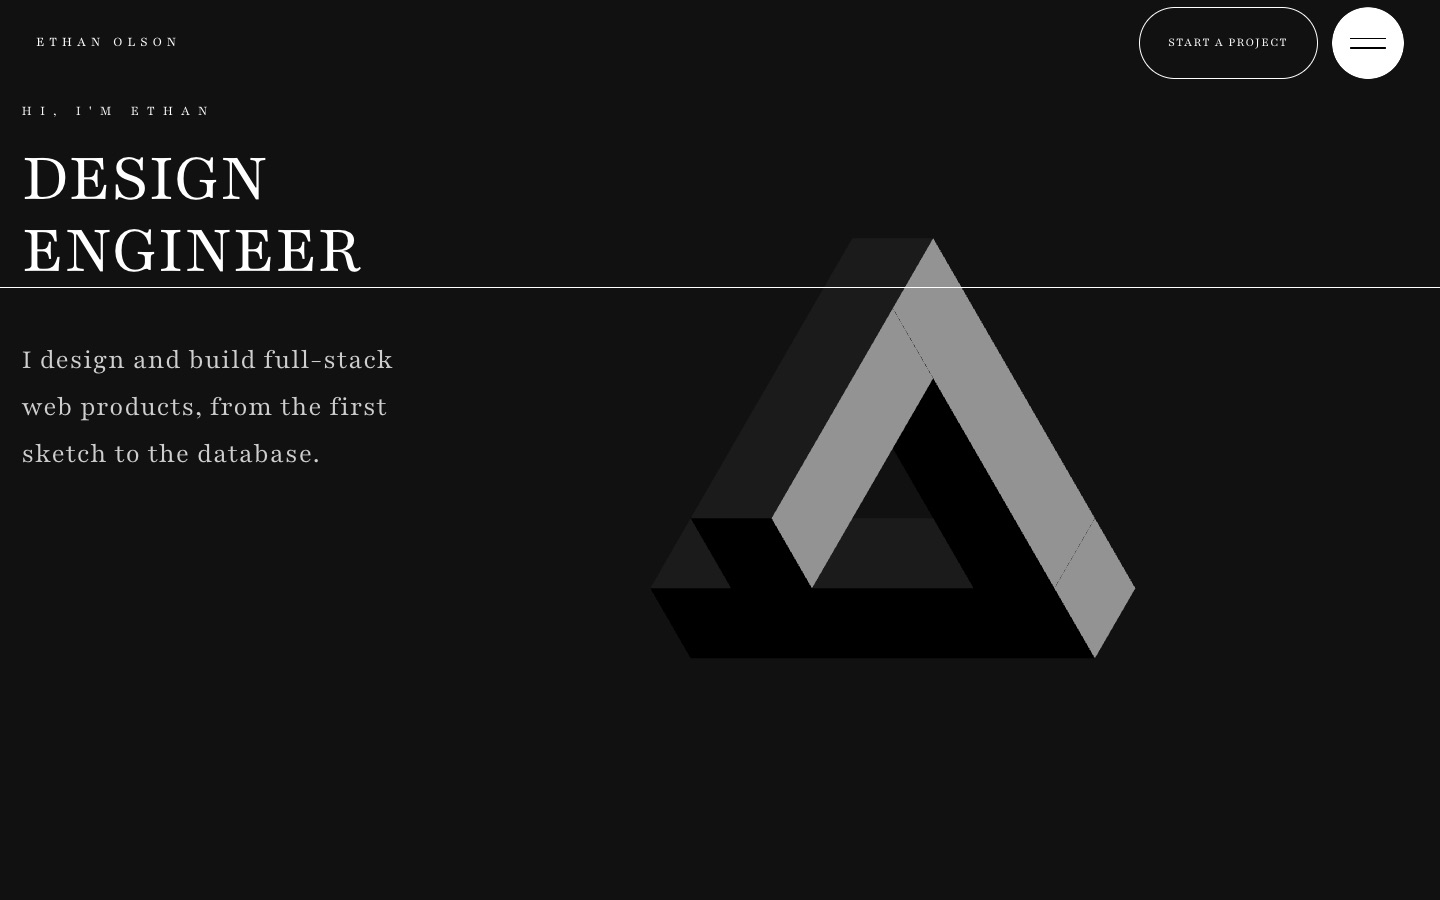
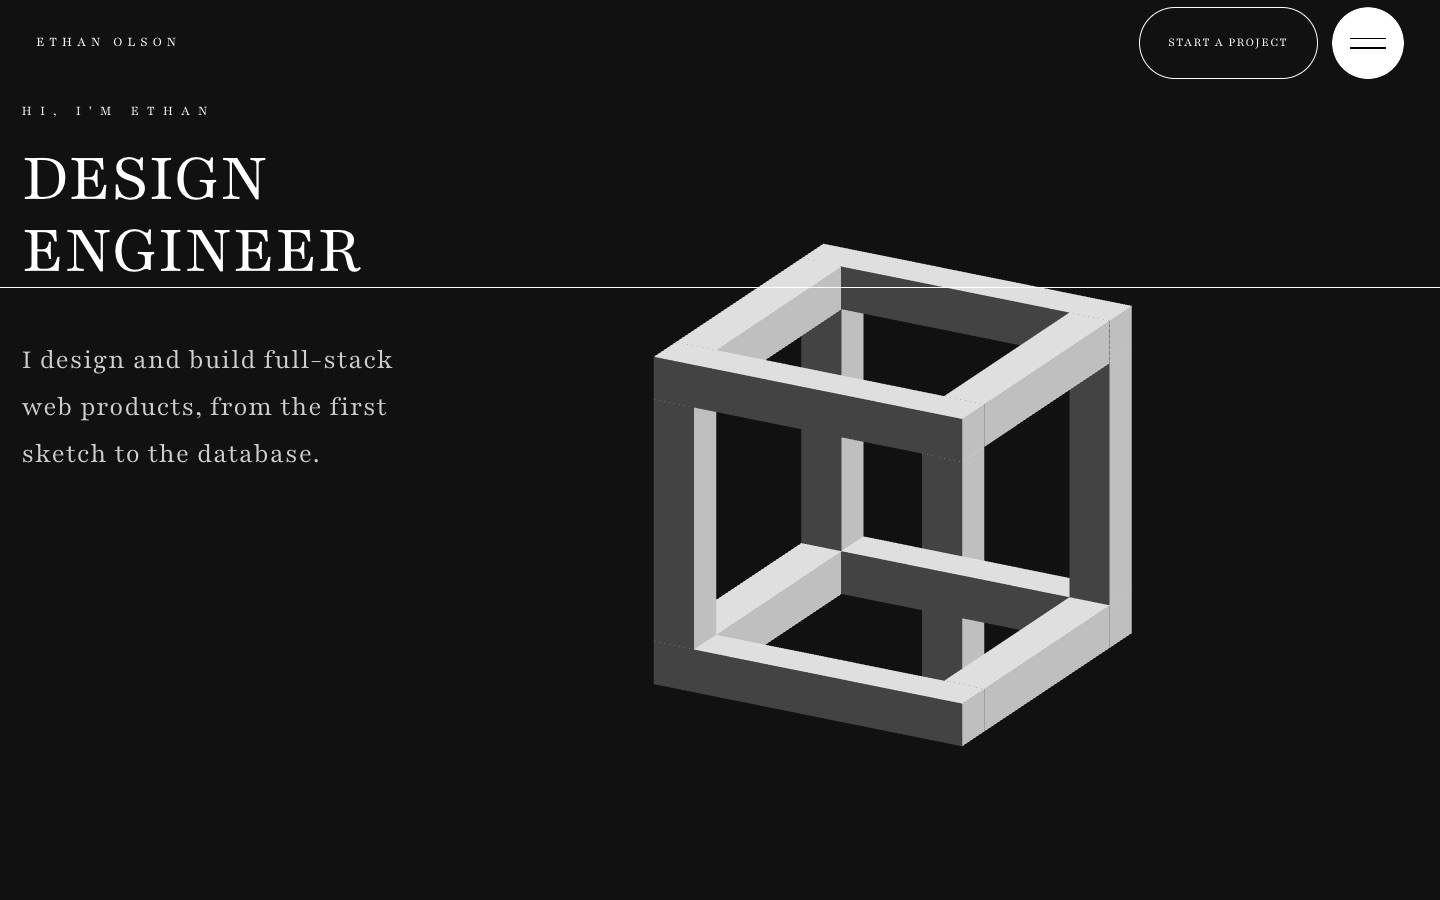
feat(hero): replace the Penrose triangle with an impossible cube
The cube frame is built from box beams. The part of the front-right edge around its crossing with the back-bottom edge is moved straight back along the line of sight, so from the final angle the back edge passes in front of it. Each face direction gets its own tone so the crossings read clearly, and the float no longer rotates the figure.

Closes #11

Changed region(s): [[0.4375, 0.2489, 0.8125, 0.84]]

diff --git a/components/ui/OpticalIllusion.tsx b/components/ui/OpticalIllusion.tsx
@@ -5,34 +5,65 @@ import * as THREE from "three";
 import { useThree } from "@react-three/fiber";
 import { gsap } from "@/lib/gsap";
 
-// A Penrose triangle: three perpendicular beams that only look like a closed triangle
-// when viewed along the (1, 1, 1) diagonal. The third beam is one block short, and from
-// that angle the first beam's end fills the gap.
-const LENGTH = 5;
-const VIEW_DIRECTION = new THREE.Vector3(1, 1, 1).normalize();
+// An impossible cube (after Escher): a cube frame where one back edge appears to pass in
+// front of a front edge. Seen from VIEW, the front-right edge crosses the back-bottom edge.
+// The part of the front edge around that crossing is pushed straight back along VIEW,
+// behind the back edge. In a parallel projection that move is invisible, so the frame
+// still looks continuous, but the crossing is now the wrong way round.
+const HALF = 2;
+const THICKNESS = 0.6;
+const VIEW = new THREE.Vector3(0.55, 0.45, 1).normalize();
 
-const beams: { size: [number, number, number]; center: [number, number, number] }[] = [
-  { size: [LENGTH, 1, 1], center: [LENGTH / 2, 0.5, 0.5] },
-  { size: [1, LENGTH - 1, 1], center: [LENGTH - 0.5, (LENGTH + 1) / 2, 0.5] },
-  { size: [1, 1, LENGTH - 2], center: [LENGTH - 0.5, LENGTH - 0.5, LENGTH / 2] },
-];
+type Beam = { size: [number, number, number]; position: [number, number, number] };
 
-// Centroid of the three corner blocks, so the visible triangle is centered
-const CENTER: [number, number, number] = [-(2 * LENGTH - 0.5) / 3, -(LENGTH + 0.5) / 3, -0.5];
+function impossibleCube(): Beam[] {
+  const full = 2 * HALF + THICKNESS;
+  const inner = 2 * HALF - THICKNESS;
+  const beams: Beam[] = [];
+
+  // Edges along x own the corners, so beams never overlap
+  for (const y of [-HALF, HALF])
+    for (const z of [-HALF, HALF]) beams.push({ size: [full, THICKNESS, THICKNESS], position: [0, y, z] });
+  for (const x of [-HALF, HALF])
+    for (const y of [-HALF, HALF]) beams.push({ size: [THICKNESS, THICKNESS, inner], position: [x, y, 0] });
+  for (const z of [-HALF, HALF]) beams.push({ size: [THICKNESS, inner, THICKNESS], position: [-HALF, 0, z] });
+  beams.push({ size: [THICKNESS, inner, THICKNESS], position: [HALF, 0, -HALF] });
+
+  // Where the front-right edge (x = HALF, z = HALF) crosses the back-bottom edge
+  // (y = -HALF, z = -HALF) on screen: the two points differ by exactly `depth` along VIEW.
+  const depth = (2 * HALF) / VIEW.z;
+  const crossingY = -HALF + depth * VIEW.y;
+  const splitY = crossingY + THICKNESS * 1.5;
+  const bottom = -HALF + THICKNESS / 2;
+  const top = HALF - THICKNESS / 2;
+
+  // Upper part of the front-right edge stays at the front
+  beams.push({
+    size: [THICKNESS, top - splitY, THICKNESS],
+    position: [HALF, (top + splitY) / 2, HALF],
+  });
+
+  // Lower part, moved behind the back edge along the line of sight
+  const behind = VIEW.clone().multiplyScalar(-(depth + 2 * THICKNESS));
+  beams.push({
+    size: [THICKNESS, splitY - bottom, THICKNESS],
+    position: [HALF + behind.x, (splitY + bottom) / 2 + behind.y, HALF + behind.z],
+  });
+
+  return beams;
+}
+
+const BEAMS = impossibleCube();
 
 const START_ROTATION = { x: -1.2, y: 0.8, z: 0.4 };
 
-// Turns the figure so its illusion diagonal points at a camera on the -z side,
-// with the first beam lying horizontally on screen and the triangle pointing up.
+// Turns the figure so VIEW points at a camera on the -z side, with the cube upright.
 function illusionQuaternion() {
-  const toCamera = new THREE.Quaternion().setFromUnitVectors(
-    VIEW_DIRECTION,
-    new THREE.Vector3(0, 0, -1)
-  );
-  const firstBeam = new THREE.Vector3(1, 0, 0).applyQuaternion(toCamera);
+  const toCamera = new THREE.Quaternion().setFromUnitVectors(VIEW, new THREE.Vector3(0, 0, -1));
+  const up = new THREE.Vector3(0, 1, 0).applyQuaternion(toCamera);
   const roll = new THREE.Quaternion().setFromAxisAngle(
     new THREE.Vector3(0, 0, 1),
-    Math.PI - Math.atan2(firstBeam.y, firstBeam.x)
+    Math.atan2(up.x, up.y)
   );
   return roll.multiply(toCamera);
 }
@@ -46,28 +77,26 @@ export function OpticalIllusion({
   const container = useRef<THREE.Group>(null);
   const { viewport } = useThree();
   // Sized and placed relative to the viewport, so it works for any camera zoom
-  const scale = Math.min(viewport.height * 0.11, viewport.width * 0.15);
+  const scale = Math.min(viewport.height * 0.085, viewport.width * 0.13);
   const wide = viewport.aspect > 1;
   // The camera looks along +z, so screen-right is world -x
   const offsetX = wide ? -viewport.width * 0.12 : 0;
   const offsetY = wide ? -viewport.height * 0.05 : -viewport.height * 0.2;
 
-  const material = useMemo(
-    () =>
-      new THREE.MeshPhysicalMaterial({
-        color: "#2B2B2B",
-        metalness: 1,
-        roughness: 0.25,
-        clearcoat: 0.1,
-        clearcoatRoughness: 0.1,
-        envMapIntensity: 2.2,
-      }),
-    []
-  );
+  // One tone per face direction (like an Escher drawing), so every crossing reads clearly.
+  // Box faces are ordered +x, -x, +y, -y, +z, -z.
+  const materials = useMemo(() => {
+    const tone = (color: string) =>
+      new THREE.MeshStandardMaterial({ color, metalness: 0.35, roughness: 0.45, envMapIntensity: 1.2 });
+    const side = tone("#6E6E6E");
+    const top = tone("#B4B4B4");
+    const front = tone("#2E2E2E");
+    return [side, side, top, top, front, front];
+  }, []);
 
-  useEffect(() => () => material.dispose(), [material]);
+  useEffect(() => () => new Set(materials).forEach((material) => material.dispose()), [materials]);
 
-  // Rotate into the one angle where the triangle closes
+  // Rotate into the one angle where the cube becomes impossible
   useEffect(() => {
     const group = container.current;
     if (!group) return;
@@ -98,13 +127,11 @@ export function OpticalIllusion({
       rotation={[START_ROTATION.x, START_ROTATION.y, START_ROTATION.z]}
     >
       <group quaternion={ORIENTATION}>
-        <group position={CENTER}>
-          {beams.map(({ size, center }, index) => (
-            <mesh key={index} position={center} material={material}>
-              <boxGeometry args={size} />
-            </mesh>
-          ))}
-        </group>
+        {BEAMS.map(({ size, position }, index) => (
+          <mesh key={index} position={position} material={materials}>
+            <boxGeometry args={size} />
+          </mesh>
+        ))}
       </group>
     </group>
   );

diff --git a/components/sections/Hero.tsx b/components/sections/Hero.tsx
@@ -51,10 +51,10 @@ const Hero = () => {
           onCreated={() => setSceneReady(true)}
         >
           <ambientLight intensity={1} />
-          {/* Low rotation keeps the illusion intact while the figure floats */}
+          {/* Float without rotating: any rotation would break the illusion's alignment */}
           <Float
             speed={reduceMotion ? 0 : 1}
-            rotationIntensity={reduceMotion ? 0 : 0.15}
+            rotationIntensity={0}
             floatIntensity={reduceMotion ? 0 : 1}
           >
             <OpticalIllusion reduceMotion={reduceMotion} />

diff --git a/README.md b/README.md
@@ -11,12 +11,12 @@ copy are invented to show how a motion-rich, full-stack portfolio is made.
 
 **Live:** not deployed yet. It will be published at `ethanolson.dev`.
 
-![The hero section: "Design Engineer" next to a 3D Penrose triangle](docs/images/hero.jpg)
+![The hero section: "Design Engineer" next to a 3D impossible cube](docs/images/hero.jpg)
 
 ## What it does
 
-- A real-time 3D Penrose triangle in the hero: three straight beams that only look like a
-  closed, impossible triangle from one angle, which the intro animation rotates into
+- A real-time 3D impossible cube in the hero, after Escher: one back edge passes in front of
+  a front edge. The trick only works from one angle, which the intro animation rotates into
 - Pinned scroll scenes: a zoom grid, an SVG mask reveal over video, a horizontal services
   track and a column parallax gallery
 - Full `prefers-reduced-motion` support: every scene has a static fallback
@@ -39,7 +39,7 @@ contact flow with Zod, Resend and Vercel BotID, Umami, self-built Web Vitals and
 ```text
 app/                  routes, metadata, icons, OG image, robots, sitemap
 components/sections/  one component per page section
-components/ui/        shared UI (header animation, navbar, gallery, Penrose triangle)
+components/ui/        shared UI (header animation, navbar, gallery, impossible cube)
 components/providers/ smooth scrolling (Lenis)
 content/              all copy and media paths (site.ts, sections.ts)
 lib/                  GSAP setup, animation helpers, media-query hooks

diff --git a/CREDITS.md b/CREDITS.md
@@ -22,6 +22,6 @@ repository. They are not for resale.
 
 ## Original work
 
-- The 3D Penrose triangle in the hero (`components/ui/OpticalIllusion.tsx`): built in code
-  for this project.
+- The 3D impossible cube in the hero (`components/ui/OpticalIllusion.tsx`): built in code
+  for this project, after M. C. Escher's impossible cube.
 - `public/projects/work-*.svg`: wireframe placeholders, made for this project.
